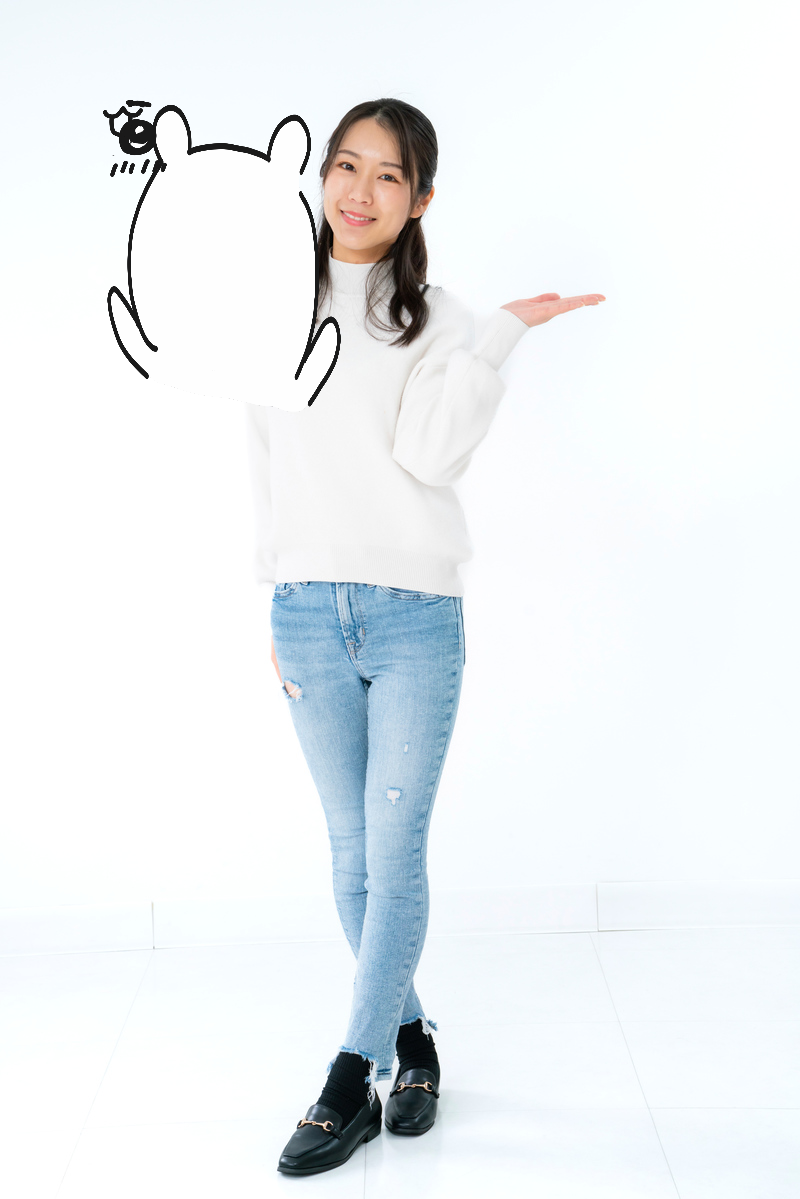
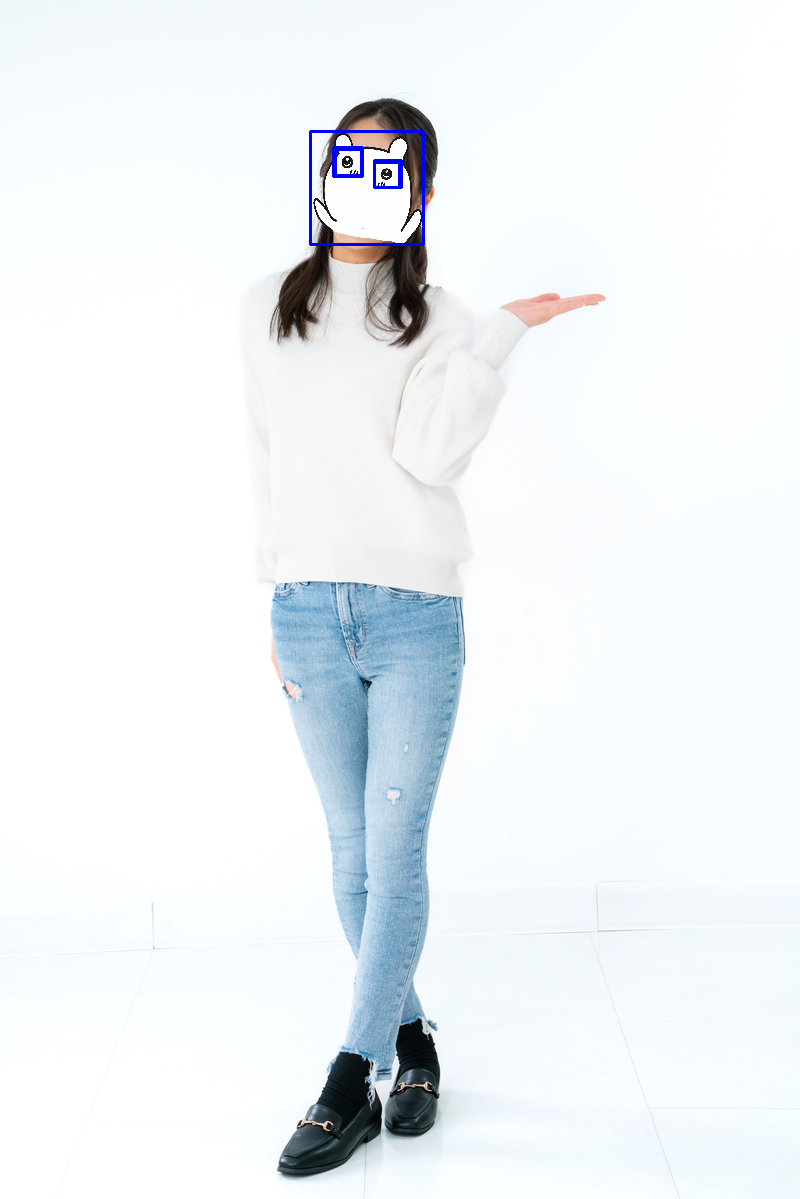
適当な座標取得をしてパーツペースト

Changed region(s): [[0.3125, 0.0926, 0.5312, 0.3394], [0.125, 0.0617, 0.2812, 0.3086], [0.3125, 0.1234, 0.3438, 0.1543]]

diff --git a/compressor.py b/compressor.py
@@ -28,14 +28,14 @@ class compressor:
         righteye = righteye_reco(img_gray)
         righteye_targets = righteye.reco()
 
-        self.print_rect_at_image(img_gray, face_targets)
-        self.print_rect_at_image(img_gray, lefteye_targets)
-        self.print_rect_at_image(img_gray, righteye_targets)
+        img_origin = self.face_paste(img_origin, face_targets)
+        img_origin = self.lefteye_paste(img_origin, lefteye_targets)
+        img_origin = self.righteye_paste(img_origin, righteye_targets)
+        # img_origin = self.mouth_paste(img_origin)
 
-        img_origin = self.face_paste(img_origin)
-        img_origin = self.lefteye_paste(img_origin)
-        img_origin = self.righteye_paste(img_origin)
-        img_origin = self.mouth_paste(img_origin)
+        self.print_rect_at_image(img_origin, face_targets)
+        self.print_rect_at_image(img_origin, lefteye_targets)
+        self.print_rect_at_image(img_origin, righteye_targets)
 
 
         self.img_write(output_img_path, img_origin)
@@ -47,33 +47,37 @@ class compressor:
     def img_write(self, filename, img):
         cv2.imwrite(filename, img)
     
-    def face_paste(self, back_img):
+    def face_paste(self, back_img, rect):
+        px, py, pw, ph = rect[0]
         fore_img = cv2.imread("./images/parts/face.png",  cv2.IMREAD_UNCHANGED)
         h, w = fore_img.shape[:2]
-        face_after_size = (math.floor(h/5), math.floor(w/5))
+        face_after_size = (pw, ph)
         fore_img = cv2.resize(fore_img, face_after_size)
-        return self.paste(back_img, fore_img, 100, 100)
+        return self.paste(back_img, fore_img, px, py)
 
-    def lefteye_paste(self, back_img):
+    def lefteye_paste(self, back_img, rect):
+        px, py, pw, ph = rect[0]
         fore_img = cv2.imread("./images/parts/lefteye.png",  cv2.IMREAD_UNCHANGED)
         h, w = fore_img.shape[:2]
-        face_after_size = (math.floor(h/5), math.floor(w/5))
+        face_after_size = (pw, ph)
         fore_img = cv2.resize(fore_img, face_after_size)
-        return self.paste(back_img, fore_img, 100, 100)
+        return self.paste(back_img, fore_img, px, py)
 
-    def righteye_paste(self, back_img):
+    def righteye_paste(self, back_img, rect):
+        px, py, pw, ph = rect[0]
         fore_img = cv2.imread("./images/parts/righteye.png",  cv2.IMREAD_UNCHANGED)
         h, w = fore_img.shape[:2]
-        face_after_size = (math.floor(h/5), math.floor(w/5))
+        face_after_size = (pw, ph)
         fore_img = cv2.resize(fore_img, face_after_size)
-        return self.paste(back_img, fore_img, 100, 100)
+        return self.paste(back_img, fore_img, px, py)
 
-    def mouth_paste(self, back_img):
+    def mouth_paste(self, back_img, rect):
+        px, py, pw, ph = rect[0]
         fore_img = cv2.imread("./images/parts/mouth.png",  cv2.IMREAD_UNCHANGED)
         h, w = fore_img.shape[:2]
-        face_after_size = (math.floor(h/5), math.floor(w/5))
+        face_after_size = (pw, ph)
         fore_img = cv2.resize(fore_img, face_after_size)
-        return self.paste(back_img, fore_img, 100, 100)
+        return self.paste(back_img, fore_img, px, py)
 
     def paste(self, back_img, fore_img, dx, dy):
         h, w = fore_img.shape[:2]
@@ -119,6 +123,9 @@ class compressor:
     def get_radian(x, y, x2, y2):
         radian = Math.atan2(y2 - y, x2 - x)
         return radian
+
+    def get_central(self, rect):
+        return (x2 - x1, y2 - y1)
 class square_reco:
     img_gray = ""
     xml_path = ""
